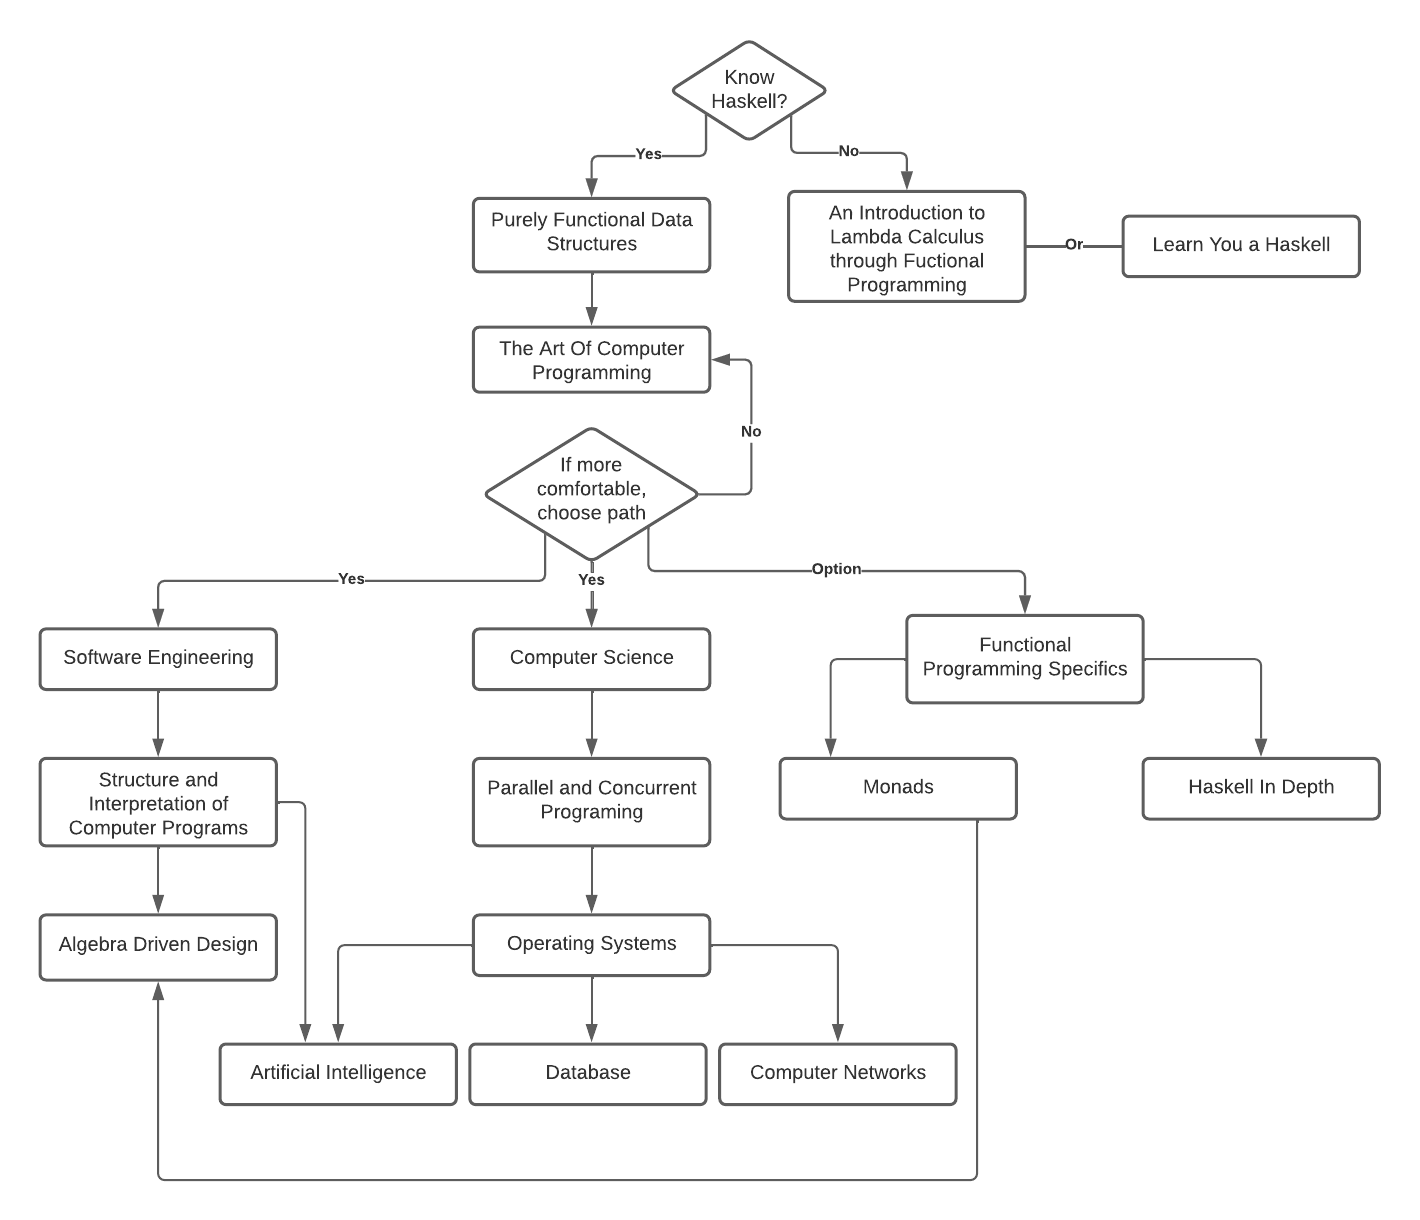
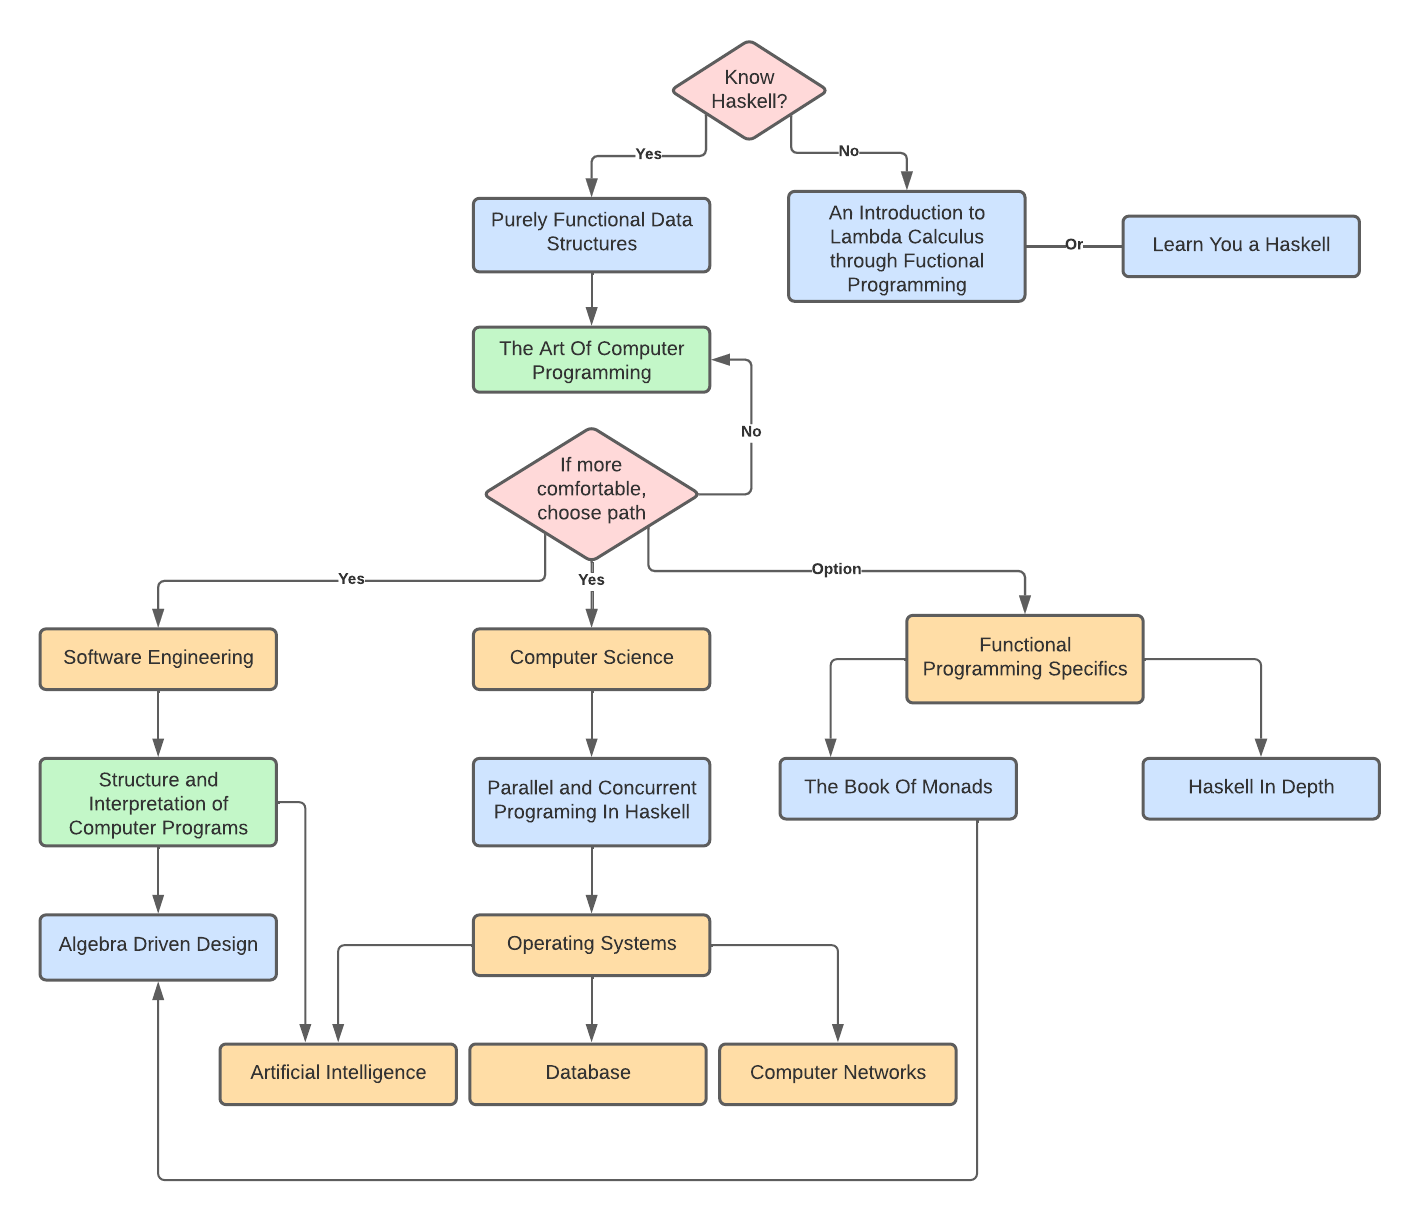
fixed path

diff --git a/README.md b/README.md
@@ -14,6 +14,12 @@ Design](./advance/software_eng/add), [programming structure](./advance/software_
 Euler](https://projecteuler.net)
 
 # Path
+Legend:
+- <span style="color:blue">*Books*</span>
+- <span style="color:green">*Highly Recommended Books*</span>
+- <span style="color:orange">*Topics*</span>
+- <span style="color:red">*Decisions*</span>
+
 ![path](./path.png)
 
 # Goal
